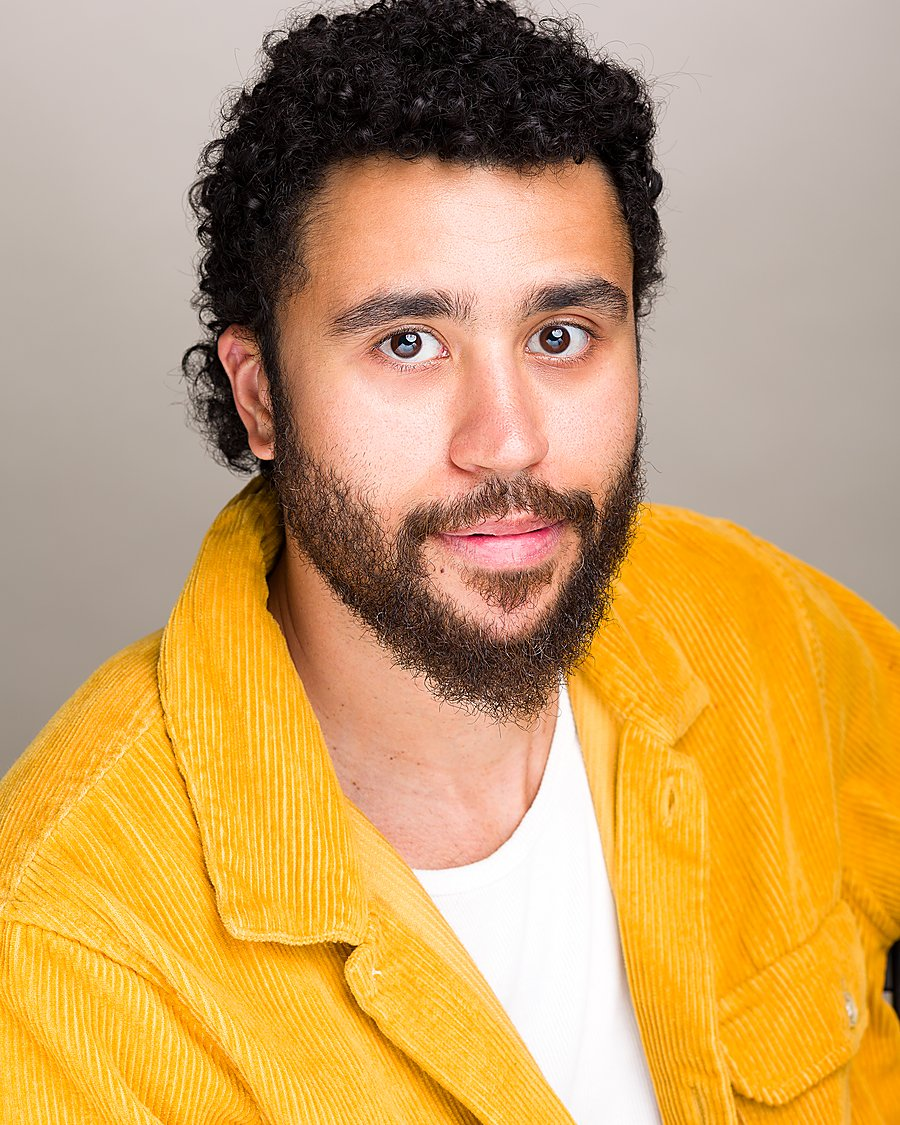
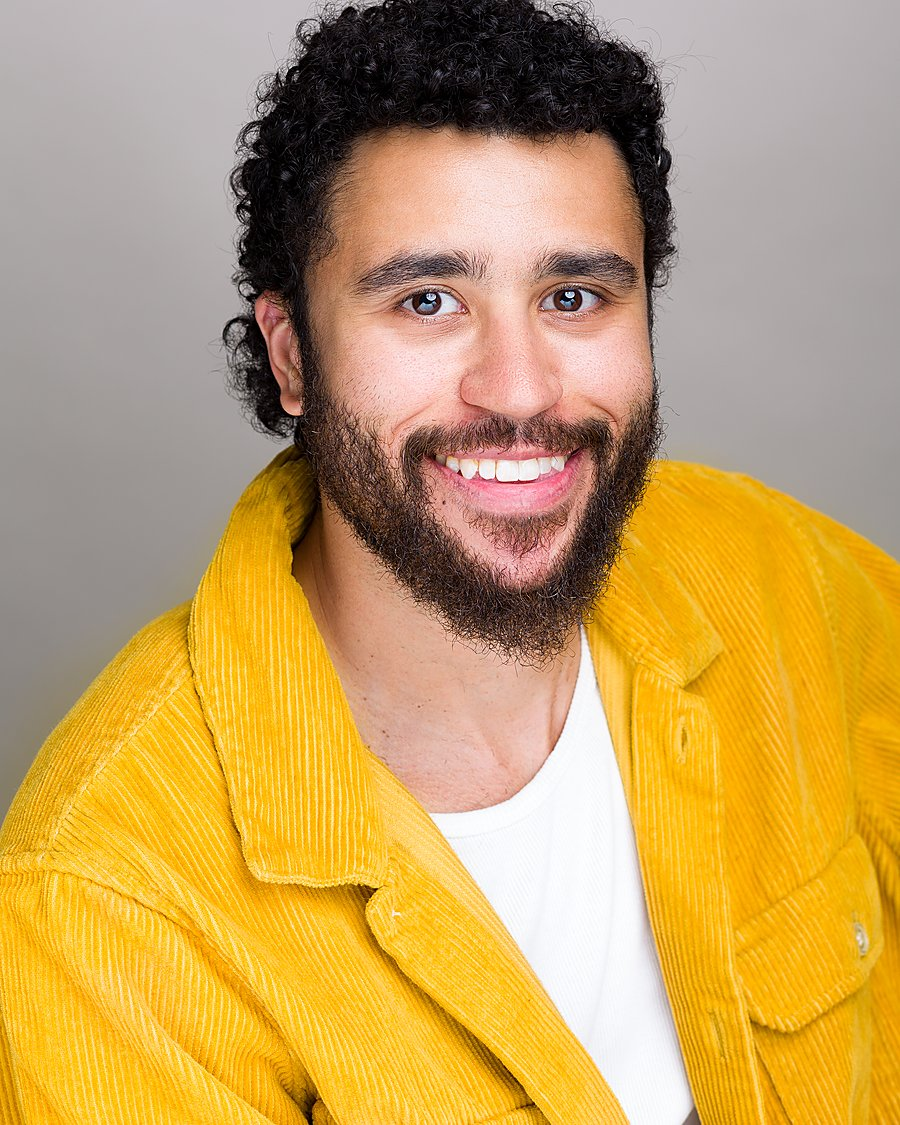
New main photo for Anthony Allen, swap grid position with Katelyn

diff --git a/index.html b/index.html
@@ -189,9 +189,11 @@
     <div class="grid-item session-extra" data-session="vanessa" data-label="Vanessa" data-full="photos/vanessa3.jpg">
       <img src="photos/thumbs/vanessa3.jpg" alt="Actress headshot Los Angeles" loading="lazy" /></div>
 
-    <!-- Katelyn -->
-    <div class="grid-item" data-session="katelyn" data-label="Katelyn" data-full="photos/katelyn.jpg">
-      <img src="photos/thumbs/katelyn.jpg" alt="Portrait photographer Los Angeles" loading="lazy" /></div>
+    <!-- Anthony Allen -->
+    <div class="grid-item" data-session="anthony" data-label="Anthony Allen" data-full="photos/anthony_allen.jpg">
+      <img src="photos/thumbs/anthony_allen.jpg" alt="Headshot photographer Los Angeles" loading="lazy" /></div>
+    <div class="grid-item session-extra" data-session="anthony" data-label="Anthony Allen" data-full="photos/anthony_allen2.jpg">
+      <img src="photos/thumbs/anthony_allen2.jpg" alt="Headshot photographer Los Angeles" loading="lazy" /></div>
 
     <!-- Milena -->
     <div class="grid-item" data-session="milena" data-label="Milena" data-full="photos/milena.jpg">
@@ -325,9 +327,9 @@
     <div class="grid-item session-extra" data-session="marine" data-label="Marine" data-full="photos/marine3.jpg">
       <img src="photos/thumbs/marine3.jpg" alt="Actress headshot Los Angeles" loading="lazy" /></div>
 
-    <!-- Anthony Allen -->
-    <div class="grid-item" data-session="anthony" data-label="Anthony Allen" data-full="photos/anthony_allen.jpg">
-      <img src="photos/thumbs/anthony_allen.jpg" alt="Headshot photographer Los Angeles" loading="lazy" /></div>
+    <!-- Katelyn -->
+    <div class="grid-item" data-session="katelyn" data-label="Katelyn" data-full="photos/katelyn.jpg">
+      <img src="photos/thumbs/katelyn.jpg" alt="Portrait photographer Los Angeles" loading="lazy" /></div>
 
     <!-- Phil Robinson -->
     <div class="grid-item" data-session="phil" data-label="Phil Robinson" data-full="photos/phil_robinson.jpg">
